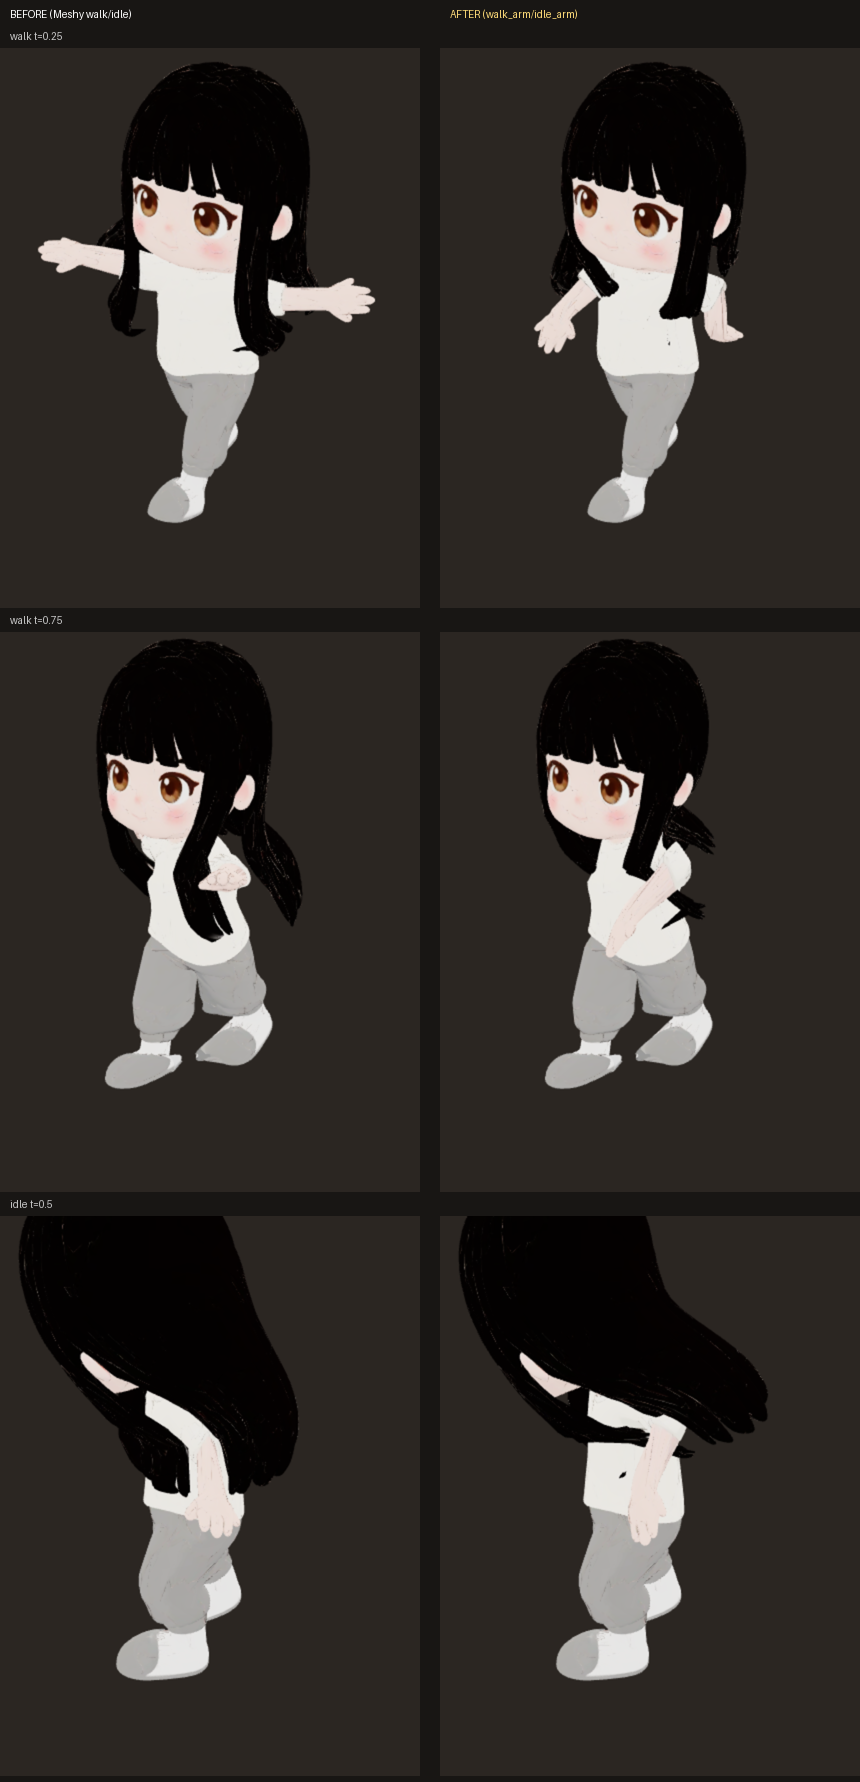
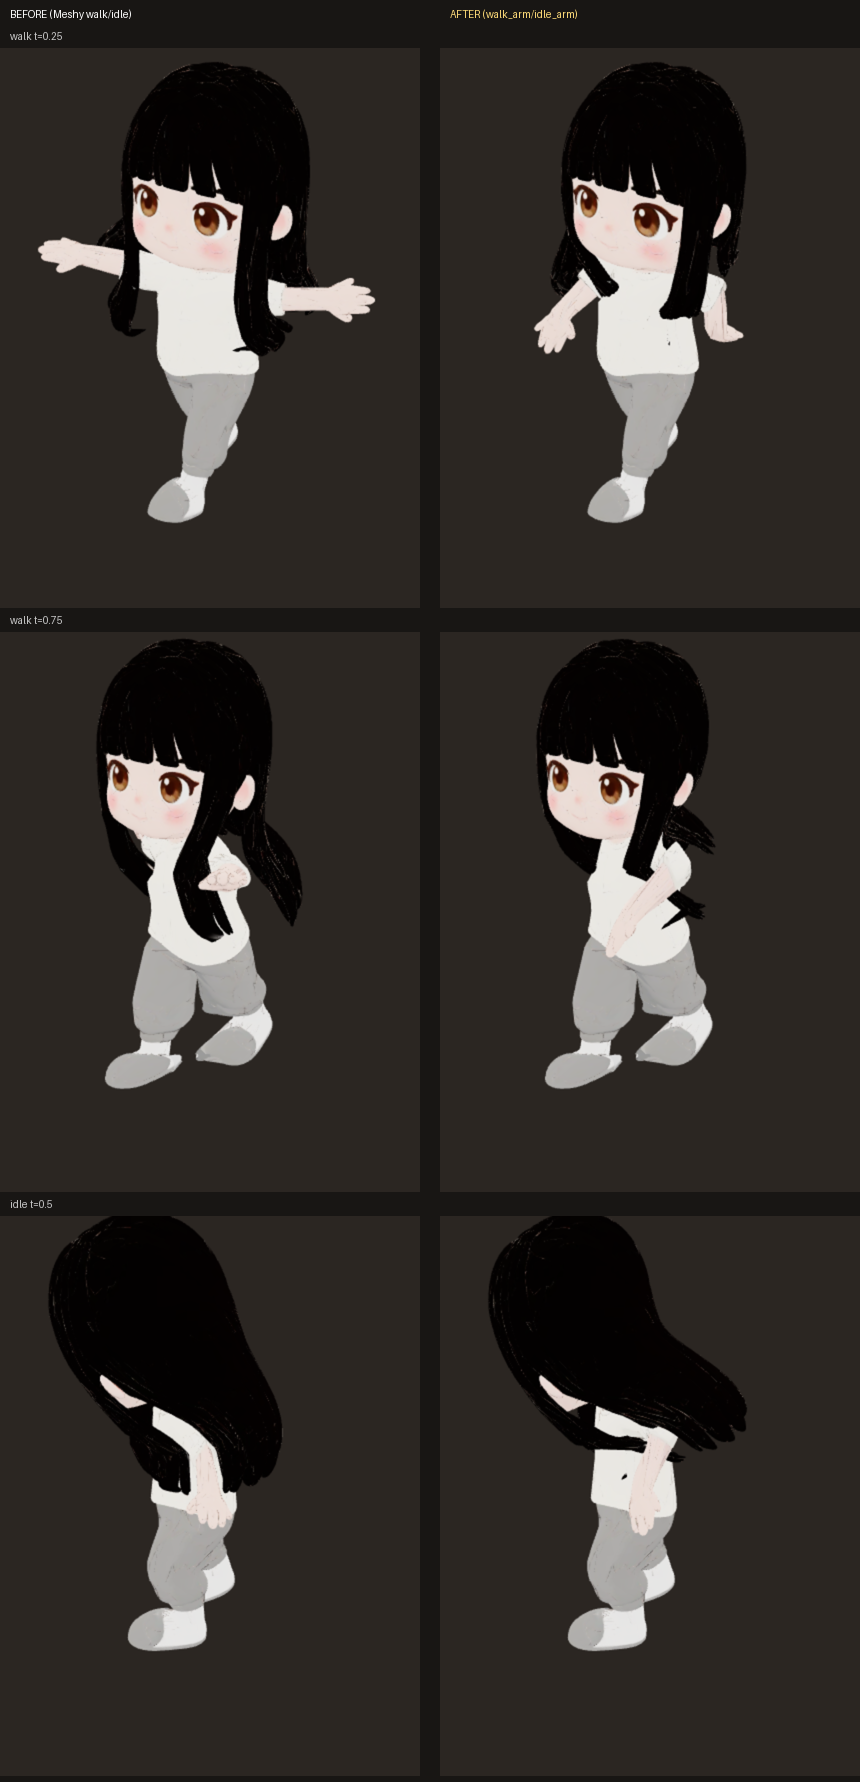
docs: 팔 고침 같은 자세 전후 — 그림 자도 게임처럼 크기 트랙을 뺀다(서기 줄이 잘리던 것)

diff --git a/tools/v2/glb_gallery.html b/tools/v2/glb_gallery.html
@@ -37,7 +37,8 @@ files.forEach((f, i) => {
     let tris = 0; o.traverse(m => { if (m.isMesh) tris += (m.geometry.index ? m.geometry.index.count : m.geometry.attributes.position.count) / 3; });
     window.__info[i] = { f, size: [s.x, s.y, s.z].map(v => +v.toFixed(3)), tris, clips: g.animations.map(a => a.name + ':' + a.duration.toFixed(2)) };
     if (q.get('anim') && g.animations.length) {
-      const mx = new THREE.AnimationMixer(o); const a = mx.clipAction(g.animations[+(q.get('clip') || 0)]); a.play();
+      const src = g.animations[+(q.get('clip') || 0)].clone(); src.tracks = src.tracks.filter(t => !/\.scale$/.test(t.name));   // 게임(v2_hero.js)과 같게 크기 트랙을 뺀다 — idle Hips 1.176
+      const mx = new THREE.AnimationMixer(o); const a = mx.clipAction(src); a.play();
       mx.setTime(parseFloat(q.get('t') || '0.4') * g.animations[+(q.get('clip') || 0)].duration); mixers.push(mx);
     }
     if (++done === files.length) finish();
